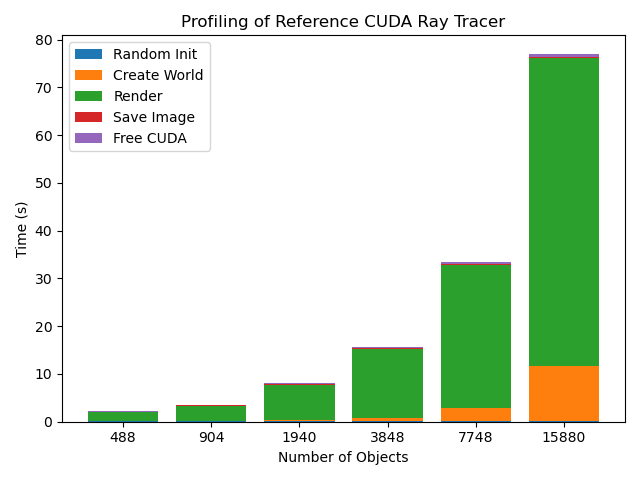
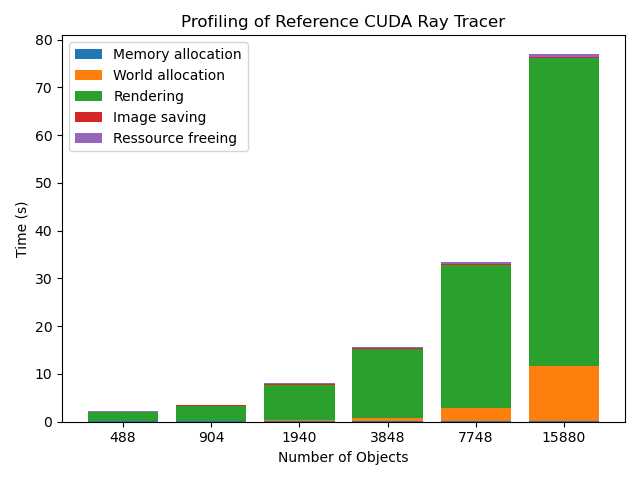
profiling result + cleanup main

Changed region(s): [[0.1562, 0.0938, 0.375, 0.3125]]

diff --git a/script/profiling_opti.py b/script/profiling_opti.py
@@ -1,0 +1,88 @@
+import matplotlib.pyplot as plt
+import subprocess
+import os
+
+exec = "./bin/cudart"
+
+img_dir = "graphs/"
+data_dir = "tmp/"
+
+n_obj = [500, 1000, 2000, 4000, 8000, 16000]
+n_obj_accurate = []
+
+fb_alloc = []
+scene_gen = []
+bvh_build = []
+render_init = []
+render_time = []
+image_save = []
+cleanup = []
+
+def get_time_from_output(output, label):
+    times = []
+    for line in output.strip().split('\n'):
+        if label in line:
+            times.append(float(line.split(" ")[1]))
+    return times
+
+def get_n_obj_from_output(output, label):
+    for line in output.strip().split('\n'):
+        if label in line:
+            return int(line.split(" ")[-2])
+    return None
+
+# check for data file
+if not os.path.exists(f'{data_dir}profiling_opti_times.csv'):
+    for n in n_obj:
+        result = subprocess.run([exec, str(n)], stdout=subprocess.PIPE, text=True)
+        n_obj_accurate.append(get_n_obj_from_output(result.stdout, "took"))
+        record = get_time_from_output(result.stdout, "for")
+        fb_alloc.append(record[0])
+        scene_gen.append(record[1])
+        bvh_build.append(record[2])
+        render_init.append(record[3])
+        render_time.append(record[4])
+        image_save.append(record[5])
+        cleanup.append(record[6])
+    # save to csv
+    with open(f'{data_dir}profiling_opti_times.csv', 'w') as f:
+        f.write("n_obj,fb_alloc,scene_gen,bvh_build,render_init,render_time,image_save,cleanup\n")
+        for i in range(len(n_obj_accurate)):
+            f.write(f"{n_obj_accurate[i]},{fb_alloc[i]},{scene_gen[i]},{bvh_build[i]},{render_init[i]},{render_time[i]},{image_save[i]},{cleanup[i]}\n")
+else:
+    with open(f'{data_dir}profiling_opti_times.csv', 'r') as f:
+        lines = f.readlines()[1:]  # skip header
+        for line in lines:
+            parts = line.strip().split(',')
+            n_obj_accurate.append(int(parts[0]))
+            fb_alloc.append(float(parts[1]))
+            scene_gen.append(float(parts[2]))
+            bvh_build.append(float(parts[3]))
+            render_init.append(float(parts[4]))
+            render_time.append(float(parts[5]))
+            image_save.append(float(parts[6]))
+            cleanup.append(float(parts[7]))
+
+# plot bar chart with stacked bars for each number of objects
+labels = [str(n) for n in n_obj_accurate]
+x = range(len(labels))
+plt.bar(x, fb_alloc, label='Framebuffer allocation')
+plt.bar(x, scene_gen, bottom=fb_alloc, label='Scene generation')
+bottoms = [i+j for i,j in zip(fb_alloc, scene_gen)]
+plt.bar(x, bvh_build, bottom=bottoms, label='BVH building')
+bottoms = [i+j for i,j in zip(bottoms, bvh_build)]
+plt.bar(x, render_init, bottom=bottoms, label='Rendering initialization')
+bottoms = [i+j for i,j in zip(bottoms, render_init)]
+plt.bar(x, render_time, bottom=bottoms, label='Rendering')
+bottoms = [i+j for i,j in zip(bottoms, render_time)]
+plt.bar(x, image_save, bottom=bottoms, label='Image saving')
+bottoms = [i+j for i,j in zip(bottoms, image_save)]
+plt.bar(x, cleanup, bottom=bottoms, label='Ressource freeing')
+plt.xticks(x, labels)
+plt.xlabel('Number of Objects')
+plt.ylabel('Time (s)')
+plt.title('Profiling of Optimized CUDA Ray Tracer')
+plt.legend()
+plt.tight_layout()
+plt.savefig(f'{img_dir}profiling_opti.png')
+plt.clf()

diff --git a/src/kernel.h b/src/kernel.h
@@ -85,14 +85,6 @@ __device__ vec3 color(const ray& r, hitable **world, curandState *local_rand_sta
     return vec3(0.0,0.0,0.0); // exceeded recursion
 }
 
-__global__ void render_init(int max_x, int max_y, curandState *rand_state) {
-    int i = threadIdx.x + blockIdx.x * blockDim.x;
-    int j = threadIdx.y + blockIdx.y * blockDim.y;
-    if((i >= max_x) || (j >= max_y)) return;
-    int pixel_index = j*max_x + i;
-    curand_init(1984+pixel_index, 0, 0, &rand_state[pixel_index]);
-}
-
 __global__ void render(vec3_8bit *fb, int max_x, int max_y, int ns, camera **cam, hitable **world, curandState *rand_state) {
     int i = threadIdx.x + blockIdx.x * blockDim.x;
     int j = threadIdx.y + blockIdx.y * blockDim.y;
@@ -114,8 +106,10 @@ __global__ void render(vec3_8bit *fb, int max_x, int max_y, int ns, camera **cam
     fb[pixel_index] = vec3_8bit(static_cast<u_int8_t>(255.99f*col[0]), static_cast<u_int8_t>(255.99f*col[1]), static_cast<u_int8_t>(255.99f*col[2]));
 }
 
-__global__ void create_world_from_flat(const BVHNodeData* nodes, int node_count, hitable **d_list, hitable **d_world, camera **d_camera, int nx, int ny) {
-    if (threadIdx.x == 0 && blockIdx.x == 0) {
+__global__ void render_init(const BVHNodeData* nodes, int node_count, hitable **d_list, hitable **d_world, camera **d_camera, int nx, int ny, curandState *rand_state) {
+    int i = threadIdx.x + blockIdx.x * blockDim.x;
+    int j = threadIdx.y + blockIdx.y * blockDim.y;
+    if (i == 0 && j == 0) {
         *d_world = new bvh_flat_world(nodes, node_count, d_list);
 
         vec3 lookfrom(13,2,3);
@@ -130,6 +124,10 @@ __global__ void create_world_from_flat(const BVHNodeData* nodes, int node_count,
                                  aperture,
                                  dist_to_focus);
     }
+
+    if((i >= nx) || (j >= ny)) return;
+    int pixel_index = j*nx + i;
+    curand_init(1984+pixel_index, 0, 0, &rand_state[pixel_index]);
 }
 
 __global__ void free_world(hitable **d_list, int count, hitable **d_world, camera **d_camera) {

diff --git a/script/profiling_ref.py b/script/profiling_ref.py
@@ -60,14 +60,14 @@ else:
 # plot bar chart with stacked bars for each number of objects
 labels = [str(n) for n in n_obj_accurate]
 x = range(len(labels))
-plt.bar(x, rand_init_time, label='Random Init')
-plt.bar(x, create_world_time, bottom=rand_init_time, label='Create World')
+plt.bar(x, rand_init_time, label='Memory allocation')
+plt.bar(x, create_world_time, bottom=rand_init_time, label='World allocation')
 bottoms = [i+j for i,j in zip(rand_init_time, create_world_time)]
-plt.bar(x, render_time, bottom=bottoms, label='Render')
+plt.bar(x, render_time, bottom=bottoms, label='Rendering')
 bottoms = [i+j for i,j in zip(bottoms, render_time)]
-plt.bar(x, save_image_time, bottom=bottoms, label='Save Image')
+plt.bar(x, save_image_time, bottom=bottoms, label='Image saving')
 bottoms = [i+j for i,j in zip(bottoms, save_image_time)]
-plt.bar(x, free_cuda_time, bottom=bottoms, label='Free CUDA')
+plt.bar(x, free_cuda_time, bottom=bottoms, label='Ressource freeing')
 plt.xticks(x, labels)
 plt.xlabel('Number of Objects')
 plt.ylabel('Time (s)')

diff --git a/src/util.h b/src/util.h
@@ -154,6 +154,6 @@ float SSIM_error(const char* file1, const char* file2, int width, int height){
 
 void inline measure_time(clock_t* start, clock_t* stop, const char* label) {
     *stop = clock();
-    printf("%s: %f sec\n", label, ((double)(*stop - *start)) / CLOCKS_PER_SEC);
+    printf("\t %f sec for %s\n", ((double)(*stop - *start)) / CLOCKS_PER_SEC, label);
     *start = clock();
 }

diff --git a/README.md b/README.md
@@ -16,6 +16,8 @@ Image are exported in PPM format, `ref.ppm` contains the original image of propo
 * Implement SSIM and MSE metrics for comparison
 * BVH implementation : this drastically reduce the number of hit done. Works better for large amount of object.
 * Input argument : number of object (this is not precise due to the way it was done in reference implementation) and number of sample per pixel
+* Generate scene on GPU in parallel
+* Profiling done for each part of program (for reference and optimized implementation)
 
 ## Idea
 * Make the creation of the world parallel : might worth it for large amount of object
@@ -27,6 +29,7 @@ Image are exported in PPM format, `ref.ppm` contains the original image of propo
 ### Profiling reference implementation
 Profiling with 7748 objects :
 
+Reference implementation :
 ```
 Rendering a 1200x800 image with 10 samples per pixel in 8x8 blocks.
 ==329503== NVPROF is profiling process 329503, command: ./bin/cudart_ref 8000
@@ -69,4 +72,99 @@ Device "NVIDIA GeForce GTX 1080 Ti (0)"
       96  117.21KB  4.0000KB  0.9961MB  10.98828MB  947.1550us  Device To Host
       33         -         -         -           -  5.294023ms  Gpu page fault groups
 Total CPU Page faults: 35
+```
+
+BHV implementation (but world creation is not parallel):
+```
+Rendering a 1200x800 image with 10 samples per pixel
+in 8x8 blocks.
+==336549== NVPROF is profiling process 336549, command: ./bin/cudart 8000
+Generated 7748 spheres.
+took 3.22066 seconds with 7748 objects.
+Mean Squared Error (MSE) between frames: 4.180320 %
+Peak Signal-to-Noise Ratio (PSNR): 13.787904 dB
+Structural Similarity Index (SSIM) between frames: 81.873306 %
+==336549== Profiling application: ./bin/cudart 8000
+==336549== Profiling result:
+            Type  Time(%)      Time     Calls       Avg       Min       Max  Name
+ GPU activities:   92.30%  2.76365s         1  2.76365s  2.76365s  2.76365s  generate_scene_data(hitable**, int*)
+                    7.62%  228.12ms         1  228.12ms  228.12ms  228.12ms  render(vec3_8bit*, int, int, int, camera**, hitable**, curandStateXORWOW*)
+                    0.05%  1.3797ms         1  1.3797ms  1.3797ms  1.3797ms  free_world(hitable**, int, hitable**, camera**)
+                    0.01%  322.45us         1  322.45us  322.45us  322.45us  create_camera_kernel(camera**, int, int)
+                    0.01%  322.00us         1  322.00us  322.00us  322.00us  create_world_from_flat(BVHNodeData const *, int, hitable**, hitable**)
+                    0.01%  298.26us         1  298.26us  298.26us  298.26us  render_init(int, int, curandStateXORWOW*)
+                    0.00%  33.633us         2  16.816us     928ns  32.705us  [CUDA memcpy DtoH]
+                    0.00%  31.172us         3  10.390us     577ns  27.522us  [CUDA memcpy HtoD]
+                    0.00%  6.3360us         1  6.3360us  6.3360us  6.3360us  compute_bounding_boxes(hitable**, int, aabb*)
+                    0.00%  1.5680us         1  1.5680us  1.5680us  1.5680us  reorder_hitables(hitable**, hitable**, int*, int)
+      API calls:   93.22%  2.99415s         9  332.68ms  3.8370us  2.76365s  cudaDeviceSynchronize
+                    4.81%  154.60ms         1  154.60ms  154.60ms  154.60ms  cudaMallocManaged
+                    1.73%  55.581ms         1  55.581ms  55.581ms  55.581ms  cudaDeviceReset
+                    0.16%  5.0304ms         8  628.79us  4.2950us  4.9262ms  cudaLaunchKernel
+                    0.04%  1.4153ms         9  157.26us  2.5970us  1.2416ms  cudaFree
+                    0.02%  489.82us         9  54.424us  3.2980us  286.12us  cudaMalloc
+                    0.01%  285.53us       114  2.5040us     307ns  106.13us  cuDeviceGetAttribute
+                    0.01%  184.98us         5  36.996us  20.332us  59.149us  cudaMemcpy
+                    0.00%  27.740us         1  27.740us  27.740us  27.740us  cuDeviceGetName
+                    0.00%  14.083us         1  14.083us  14.083us  14.083us  cuDeviceTotalMem
+                    0.00%  7.3540us         1  7.3540us  7.3540us  7.3540us  cuDeviceGetPCIBusId
+                    0.00%  3.0210us         3  1.0070us     422ns  2.0510us  cuDeviceGetCount
+                    0.00%  2.9830us         8     372ns     115ns  1.5440us  cudaGetLastError
+                    0.00%  1.7020us         2     851ns     357ns  1.3450us  cuDeviceGet
+                    0.00%     761ns         1     761ns     761ns     761ns  cuModuleGetLoadingMode
+                    0.00%     527ns         1     527ns     527ns     527ns  cuDeviceGetUuid
+
+==336549== Unified Memory profiling result:
+Device "NVIDIA GeForce GTX 1080 Ti (0)"
+   Count  Avg Size  Min Size  Max Size  Total Size  Total Time  Name
+      25  112.64KB  4.0000KB  0.9961MB  2.750000MB  258.0930us  Device To Host
+      10         -         -         -           -  1.968011ms  Gpu page fault groups
+Total CPU Page faults: 12
+```
+
+BHV implentation + parallel world creation :
+```
+Rendering a 1200x800 image with 10 samples per pixel
+in 8x8 blocks.
+==335948== NVPROF is profiling process 335948, command: ./bin/cudart 8000
+Generated 7925 spheres.
+took 0.511827 seconds with 7925 objects.
+Mean Squared Error (MSE) between frames: 4.424985 %
+Peak Signal-to-Noise Ratio (PSNR): 13.540882 dB
+Structural Similarity Index (SSIM) between frames: 81.248840 %
+==335948== Profiling application: ./bin/cudart 8000
+==335948== Profiling result:
+            Type  Time(%)      Time     Calls       Avg       Min       Max  Name
+ GPU activities:   97.77%  273.92ms         1  273.92ms  273.92ms  273.92ms  render(vec3_8bit*, int, int, int, camera**, hitable**, curandStateXORWOW*)
+                    1.06%  2.9674ms         1  2.9674ms  2.9674ms  2.9674ms  generate_scene_data(hitable**, int)
+                    0.66%  1.8544ms         1  1.8544ms  1.8544ms  1.8544ms  free_world(hitable**, int, hitable**, camera**)
+                    0.38%  1.0564ms         1  1.0564ms  1.0564ms  1.0564ms  create_world_from_flat(BVHNodeData const *, int, hitable**, hitable**, camera**, int, int)
+                    0.11%  307.25us         1  307.25us  307.25us  307.25us  render_init(int, int, curandStateXORWOW*)
+                    0.01%  33.217us         2  16.608us  3.8080us  29.409us  [CUDA memcpy HtoD]
+                    0.01%  23.297us         1  23.297us  23.297us  23.297us  [CUDA memcpy DtoH]
+                    0.00%  7.9050us         1  7.9050us  7.9050us  7.9050us  compute_bounding_boxes(hitable**, int, aabb*)
+                    0.00%  2.1760us         1  2.1760us  2.1760us  2.1760us  reorder_hitables(hitable**, hitable**, int*, int)
+      API calls:   55.83%  280.19ms         8  35.023ms  3.1540us  273.93ms  cudaDeviceSynchronize
+                   32.62%  163.68ms         1  163.68ms  163.68ms  163.68ms  cudaMallocManaged
+                   10.04%  50.375ms         1  50.375ms  50.375ms  50.375ms  cudaDeviceReset
+                    0.99%  4.9602ms         7  708.60us  4.8890us  4.8534ms  cudaLaunchKernel
+                    0.31%  1.5705ms         9  174.51us  2.7710us  1.2835ms  cudaFree
+                    0.10%  517.01us         8  64.625us  3.1240us  310.13us  cudaMalloc
+                    0.07%  330.22us       114  2.8960us     348ns  118.94us  cuDeviceGetAttribute
+                    0.03%  150.66us         3  50.219us  24.000us  94.890us  cudaMemcpy
+                    0.01%  26.114us         1  26.114us  26.114us  26.114us  cuDeviceGetName
+                    0.00%  17.219us         1  17.219us  17.219us  17.219us  cuDeviceTotalMem
+                    0.00%  8.7720us         1  8.7720us  8.7720us  8.7720us  cuDeviceGetPCIBusId
+                    0.00%  3.5220us         3  1.1740us     567ns  2.3000us  cuDeviceGetCount
+                    0.00%  2.9970us         7     428ns     140ns  1.3530us  cudaGetLastError
+                    0.00%  1.9590us         2     979ns     481ns  1.4780us  cuDeviceGet
+                    0.00%  1.3850us         1  1.3850us  1.3850us  1.3850us  cuModuleGetLoadingMode
+                    0.00%     636ns         1     636ns     636ns     636ns  cuDeviceGetUuid
+
+==335948== Unified Memory profiling result:
+Device "NVIDIA GeForce GTX 1080 Ti (0)"
+   Count  Avg Size  Min Size  Max Size  Total Size  Total Time  Name
+      25  112.64KB  4.0000KB  0.9961MB  2.750000MB  257.4520us  Device To Host
+      12         -         -         -           -  2.006379ms  Gpu page fault groups
+Total CPU Page faults: 12
 ```
